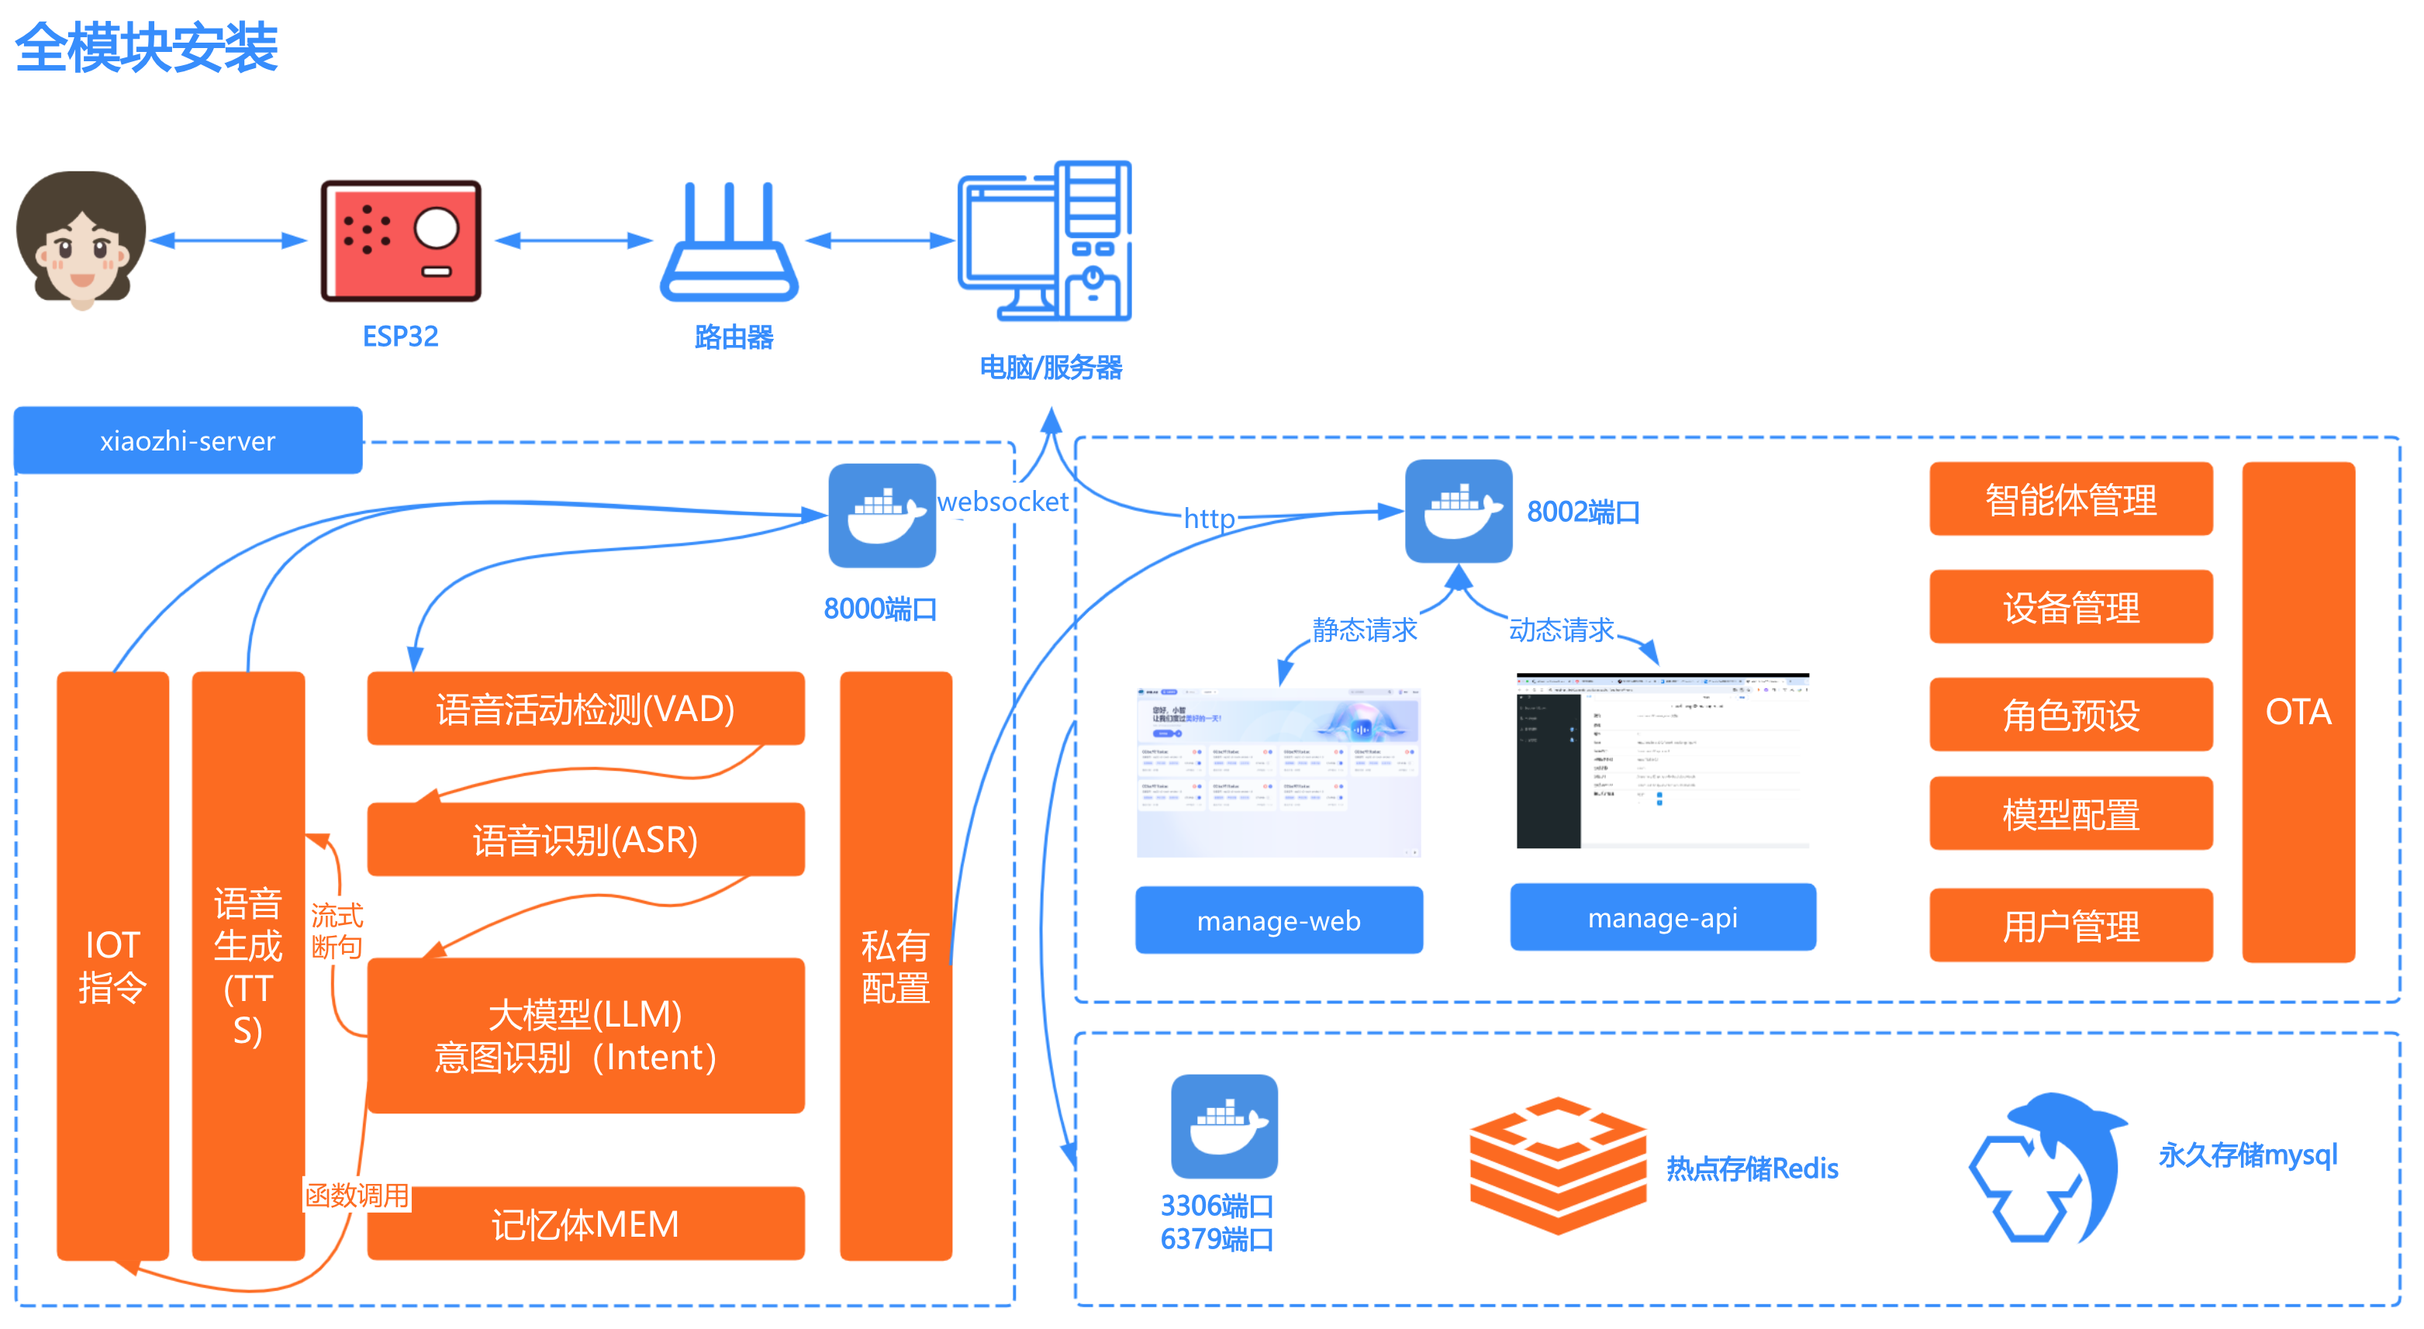
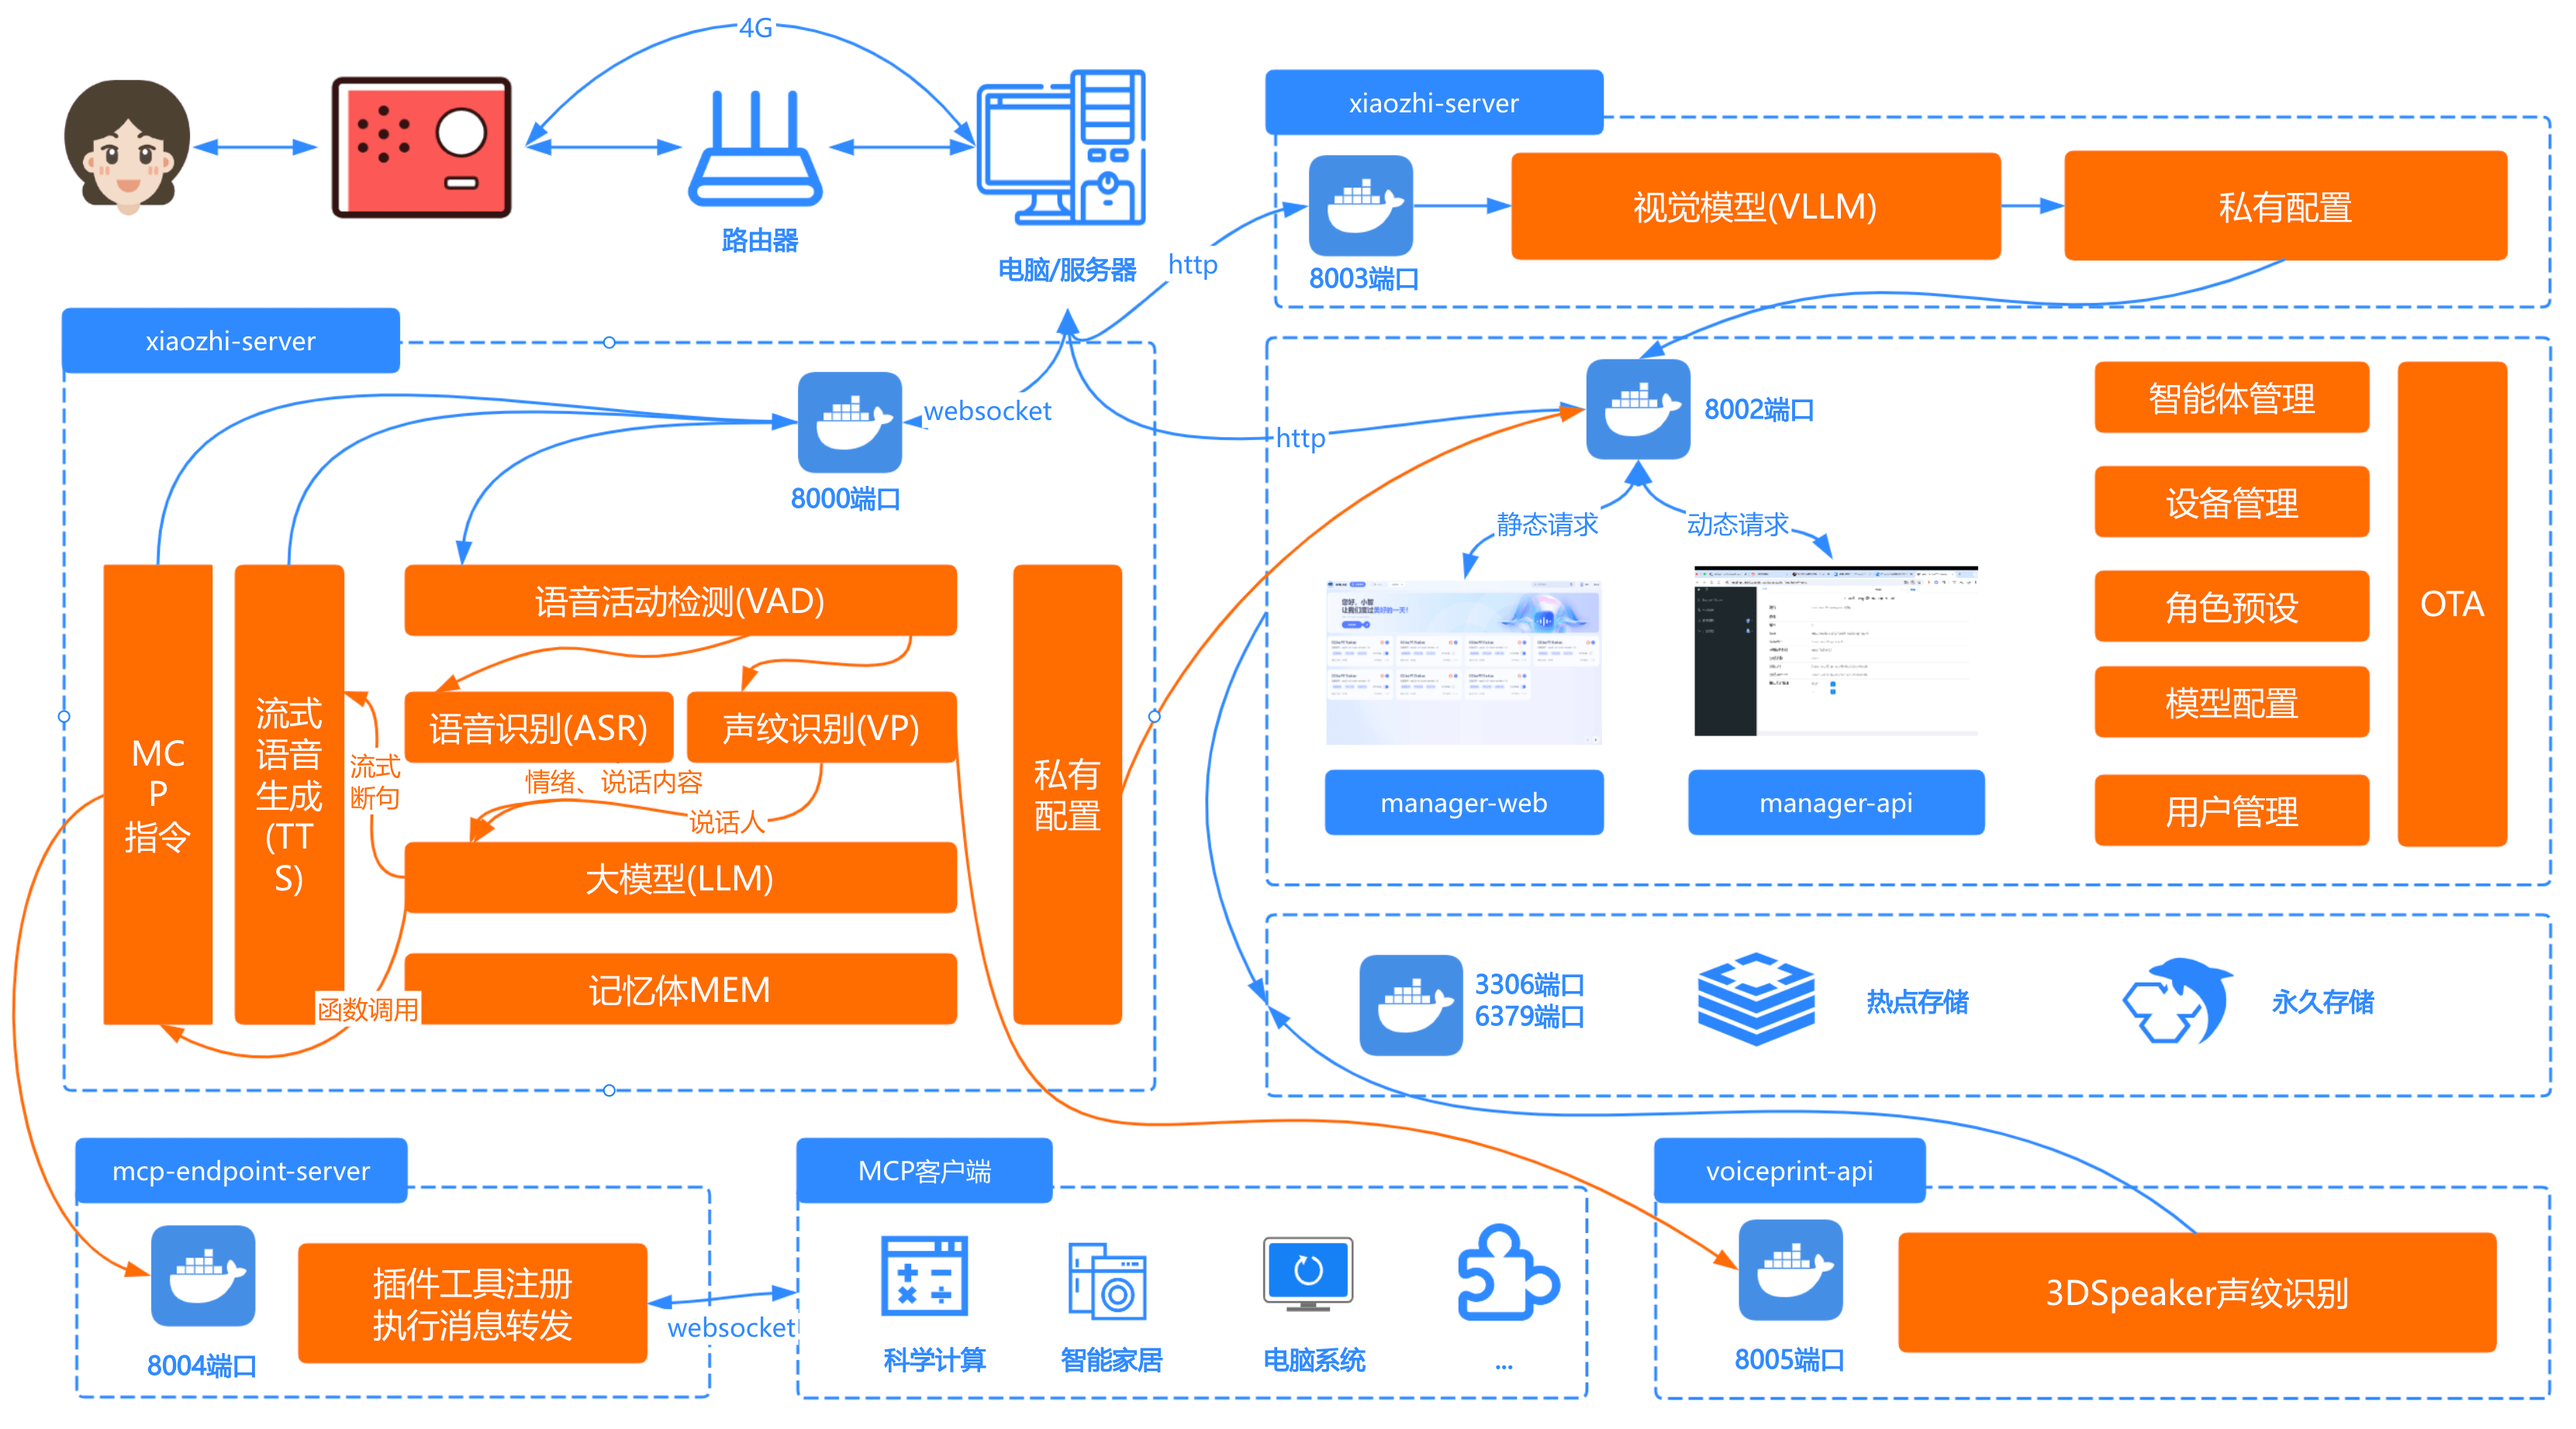
update:更新全模块关系图

diff --git a/README_en.md b/README_en.md
@@ -269,7 +269,7 @@ Xiaozhi is an ecosystem. When using this product, you can also check out other e
 ---
 
 ## Supported Platforms/Components List 📋
-
+![请参考-全模块安装架构图](docs/images/deploy2.png)
 ### LLM Language Models
 
 | Usage Method | Supported Platforms | Free Platforms |

diff --git a/README.md b/README.md
@@ -271,7 +271,7 @@ Websocket接口地址: wss://2662r3426b.vicp.fun/xiaozhi/v1/
 ---
 
 ## 本项目支持的平台/组件列表 📋
-
+![请参考-全模块安装架构图](docs/images/deploy2.png)
 ### LLM 语言模型
 
 | 使用方式 | 支持平台 | 免费平台 |
